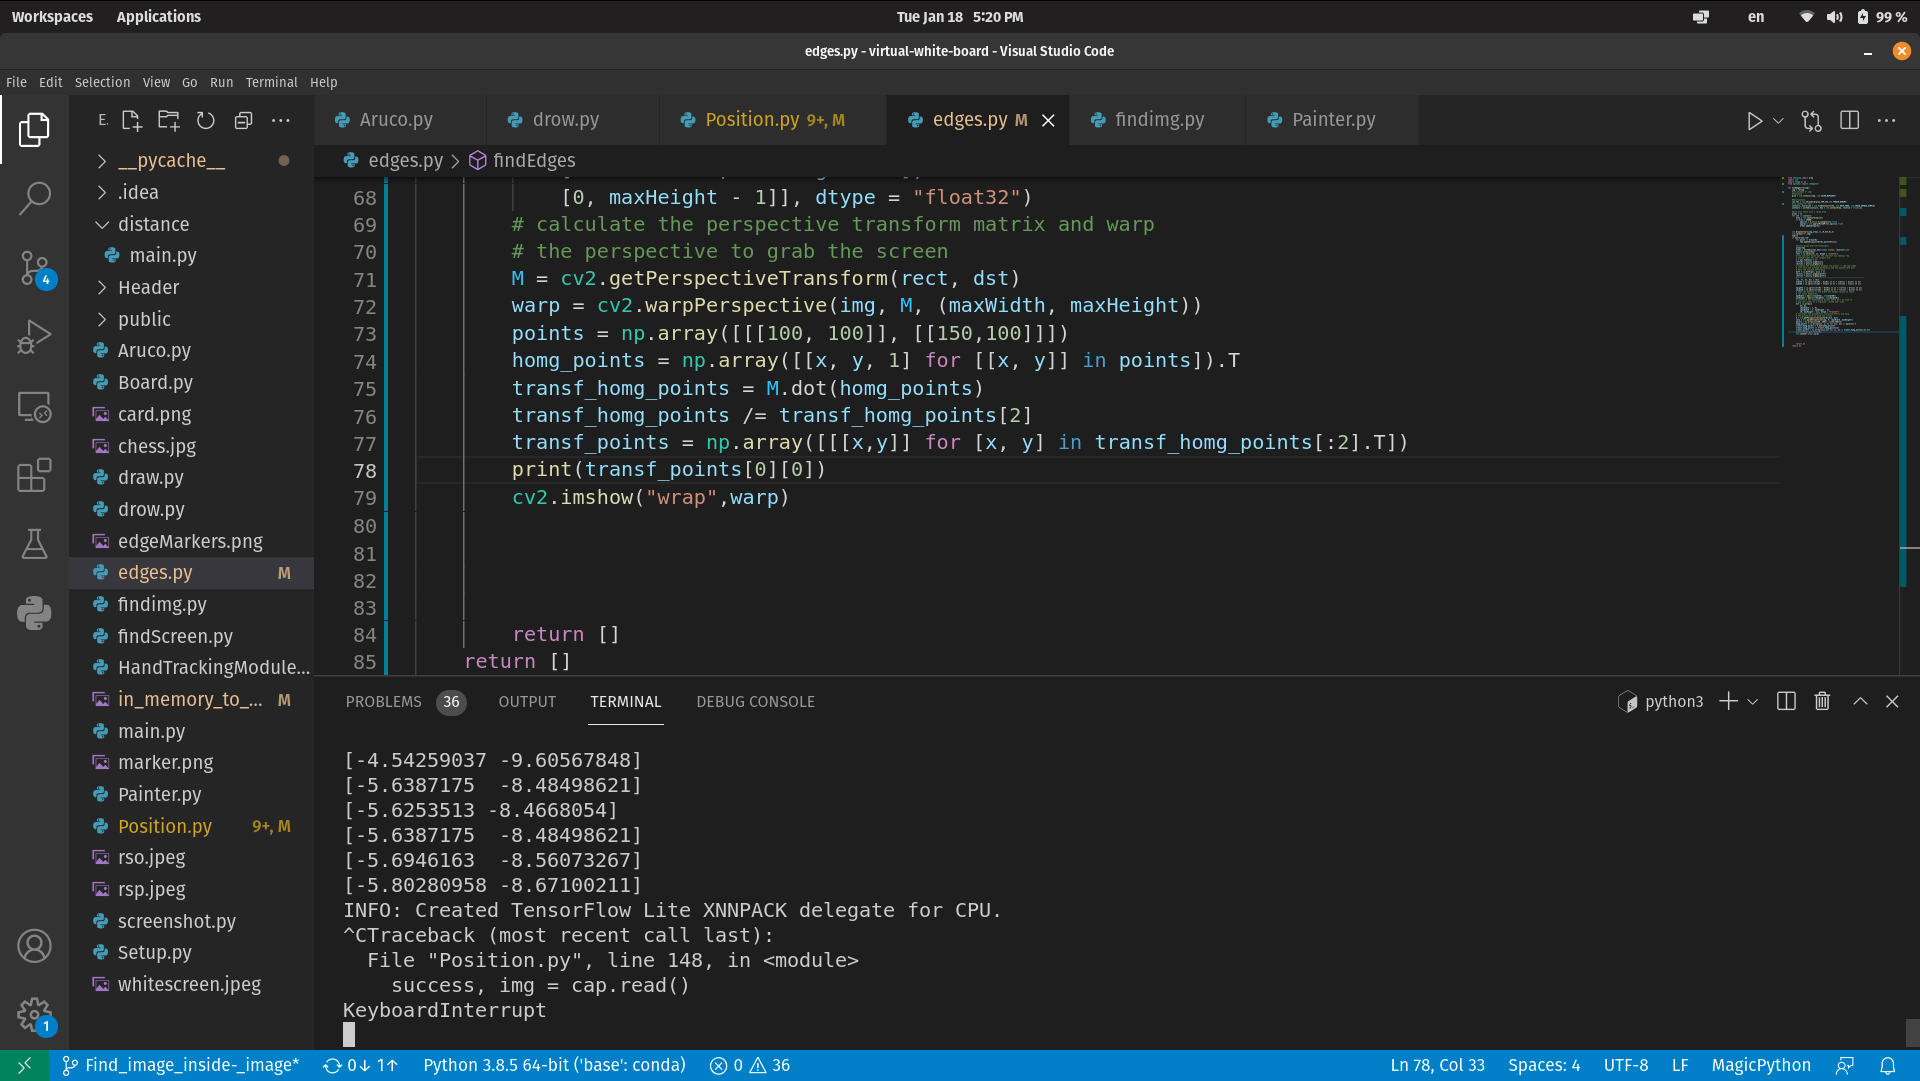
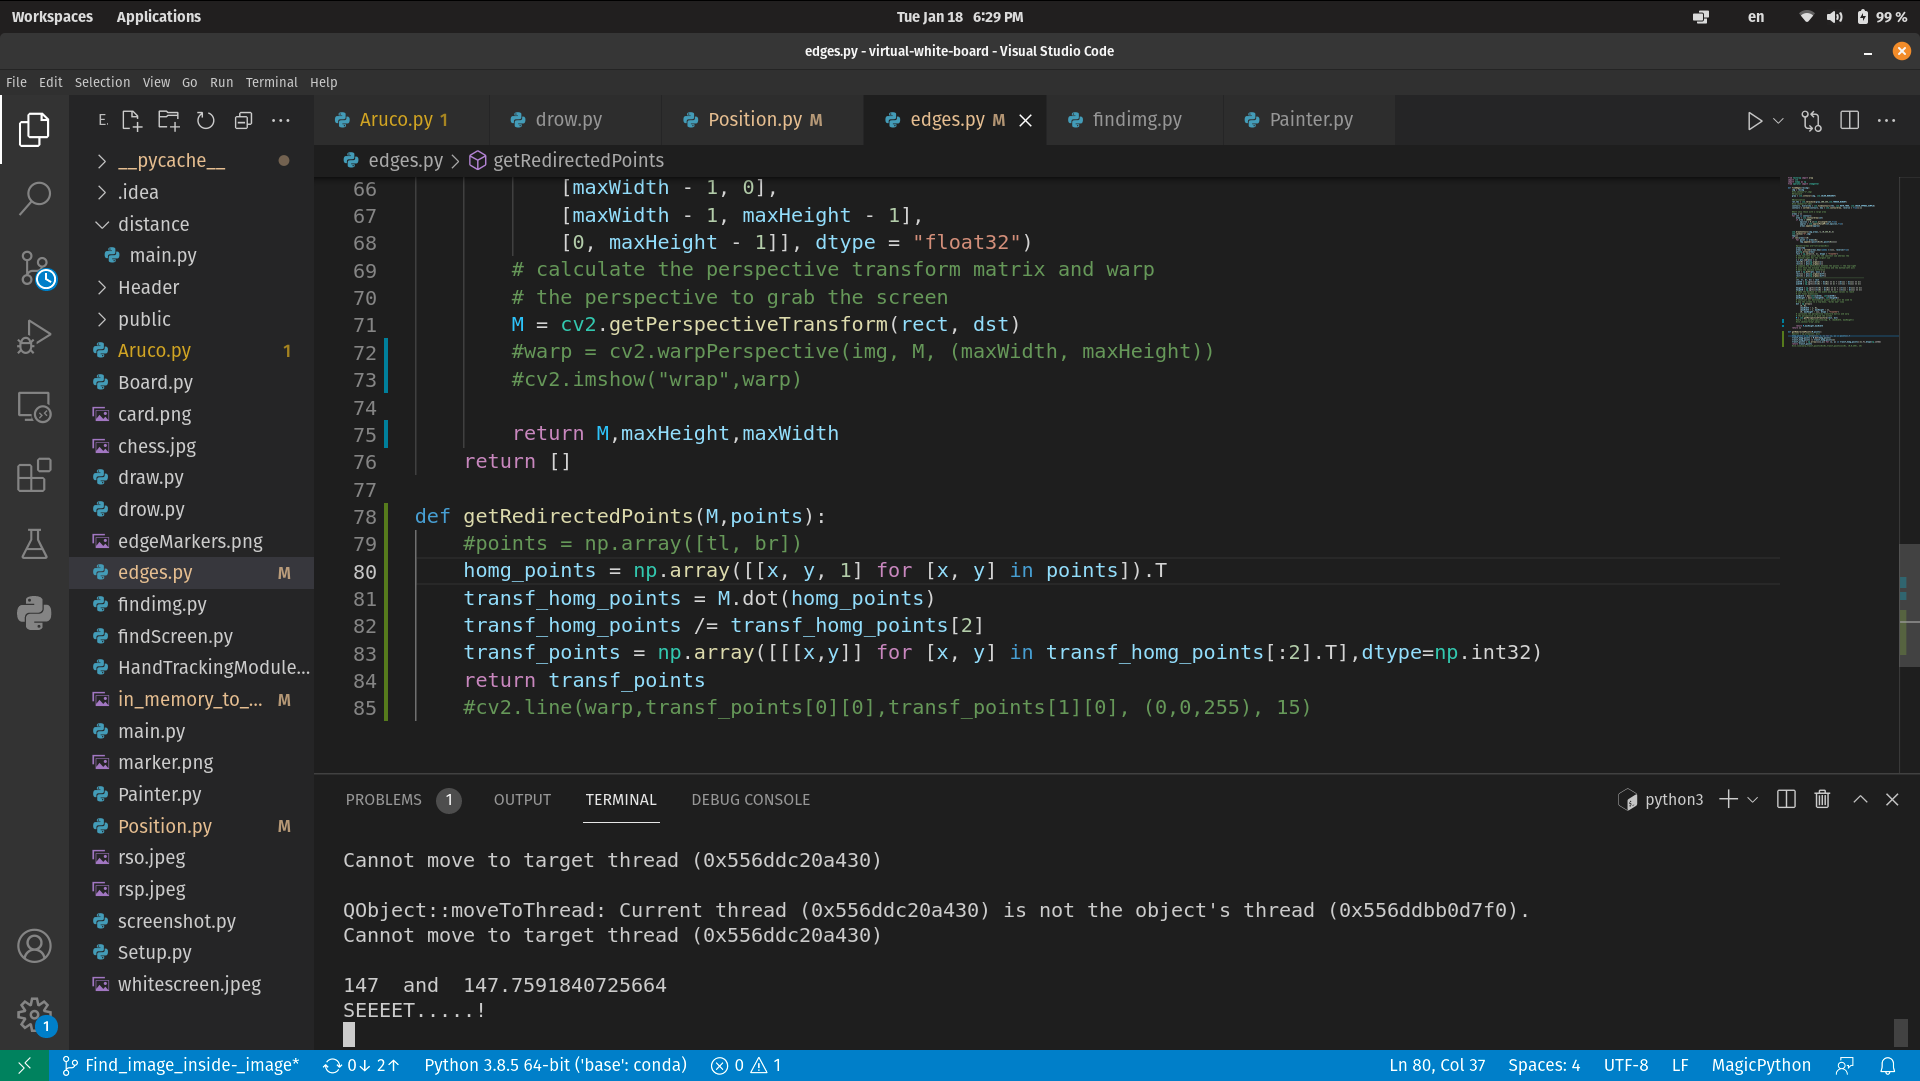
All that's left is calibration

diff --git a/Position.py b/Position.py
@@ -14,7 +14,7 @@ import pyscreenshot
 from time import sleep
 
 import findScreen
-from edges import findEdges
+from edges import findEdges, getRedirectedPoints
 
 # prepare screenshot and projectot's coordinations
 screen = screeninfo.get_monitors()[0]
@@ -96,9 +96,13 @@ while True:
     if cv2.waitKey(1) & 0xFF == ord('q'):
         cv2.destroyAllWindows()
         break
-
 cap.release()
 del cap
+
+M=res[0]
+scaleH=res[1]
+scaleW=res[2]
+
 
 
 cap = cv2.VideoCapture(2)
@@ -174,24 +178,20 @@ while True:
             # print('bordDistance distance - ', bordDistance)
             if bordDistance <= distanceCM and fingerWriter==1:
                 xs, ys = lmList[8]
-                print(int((xs-re[0])*(1920/(re[2]-re[0]))))
-                print(xs)
-                print(re)
                 if xp == 0 and yp == 0:
                     xp, yp = xs, ys
-                if xp>re[0] and xs>re[0] and xp<re[2] and xs<re[2] and yp>re[1] and ys>re[1] and yp<re[3] and ys<re[3]:
-                    cv2.line(imgCanvas, (int((xp-re[0])*(1920/(re[2]-re[0]))), int((yp-re[1])*(1080/(re[3]-re[1])))), (int((xs-re[0])*(1920/(re[2]-re[0]))), int((ys-re[1])*(1080/(re[3]-re[1])))), (255,255,255), 15)
-                    xp, yp = xs, ys
-                    img = UpdateStatus(img,xs,ys,"WRITE!!!")
-                    counter=0
-                else:
-                    img = UpdateStatus(img,xs,ys,"out of bounds")
+                projectedPoints=getRedirectedPoints(M,[[xs,ys],[xp,yp]])
+                cv2.line(imgCanvas, projectedPoints[0][0],projectedPoints[1][0], (255,255,255), 15)
+                xp, yp = xs, ys
+                img = UpdateStatus(img,xs,ys,"WRITE!!!")
+                counter=0
             elif bordDistance <= distanceCM and fingerWriter==0:#mods
                 if (mode!=0 and counter>15):
+                    projectedPoints=getRedirectedPoints(M,[[xs,ys]])
                     xs, ys = lmList[3]
                     img = UpdateStatus(img, xs, ys, "Erase...")
-                    cv2.circle(img, (int((xs-re[0])*(1920/(re[2]-re[0]))), int((ys-re[1])*(1080/(re[3]-re[1])))), 50, (0, 0, 0),4)
-                    cv2.circle(imgCanvas, ((int((xs-re[0])*(1920/(re[2]-re[0]))), int((ys-re[1])*(1080/(re[3]-re[1]))))), 50, (0, 0, 0), cv2.FILLED)
+                    cv2.circle(img, projectedPoints[0][0], 50, (0, 0, 0),4)
+                    cv2.circle(imgCanvas, projectedPoints[0][0], 50, (0, 0, 0), cv2.FILLED)
                 counter=counter+1
                 xp,yp=0,0
             else:

diff --git a/edges.py b/edges.py
@@ -69,17 +69,17 @@ def findEdges(recimg):
         # calculate the perspective transform matrix and warp
         # the perspective to grab the screen
         M = cv2.getPerspectiveTransform(rect, dst)
-        warp = cv2.warpPerspective(img, M, (maxWidth, maxHeight))
-        points = np.array([[tl], [br]])
-        homg_points = np.array([[x, y, 1] for [[x, y]] in points]).T
-        transf_homg_points = M.dot(homg_points)
-        transf_homg_points /= transf_homg_points[2]
-        transf_points = np.array([[[x,y]] for [x, y] in transf_homg_points[:2].T])
-        cv2.line(warp,transf_points[0][0],transf_points[1][0], (255,0,255), 15)
-        cv2.imshow("wrap",warp)
+        #warp = cv2.warpPerspective(img, M, (maxWidth, maxHeight))
+        #cv2.imshow("wrap",warp)
         
-        
-        
-        
-        return M
+        return M,maxHeight,maxWidth
     return []
+
+def getRedirectedPoints(M,points):
+    #points = np.array([tl, br])
+    homg_points = np.array([[x, y, 1] for [x, y] in points]).T
+    transf_homg_points = M.dot(homg_points)
+    transf_homg_points /= transf_homg_points[2]
+    transf_points = np.array([[[x,y]] for [x, y] in transf_homg_points[:2].T],dtype=np.int32)
+    return transf_points
+    #cv2.line(warp,transf_points[0][0],transf_points[1][0], (0,0,255), 15)
